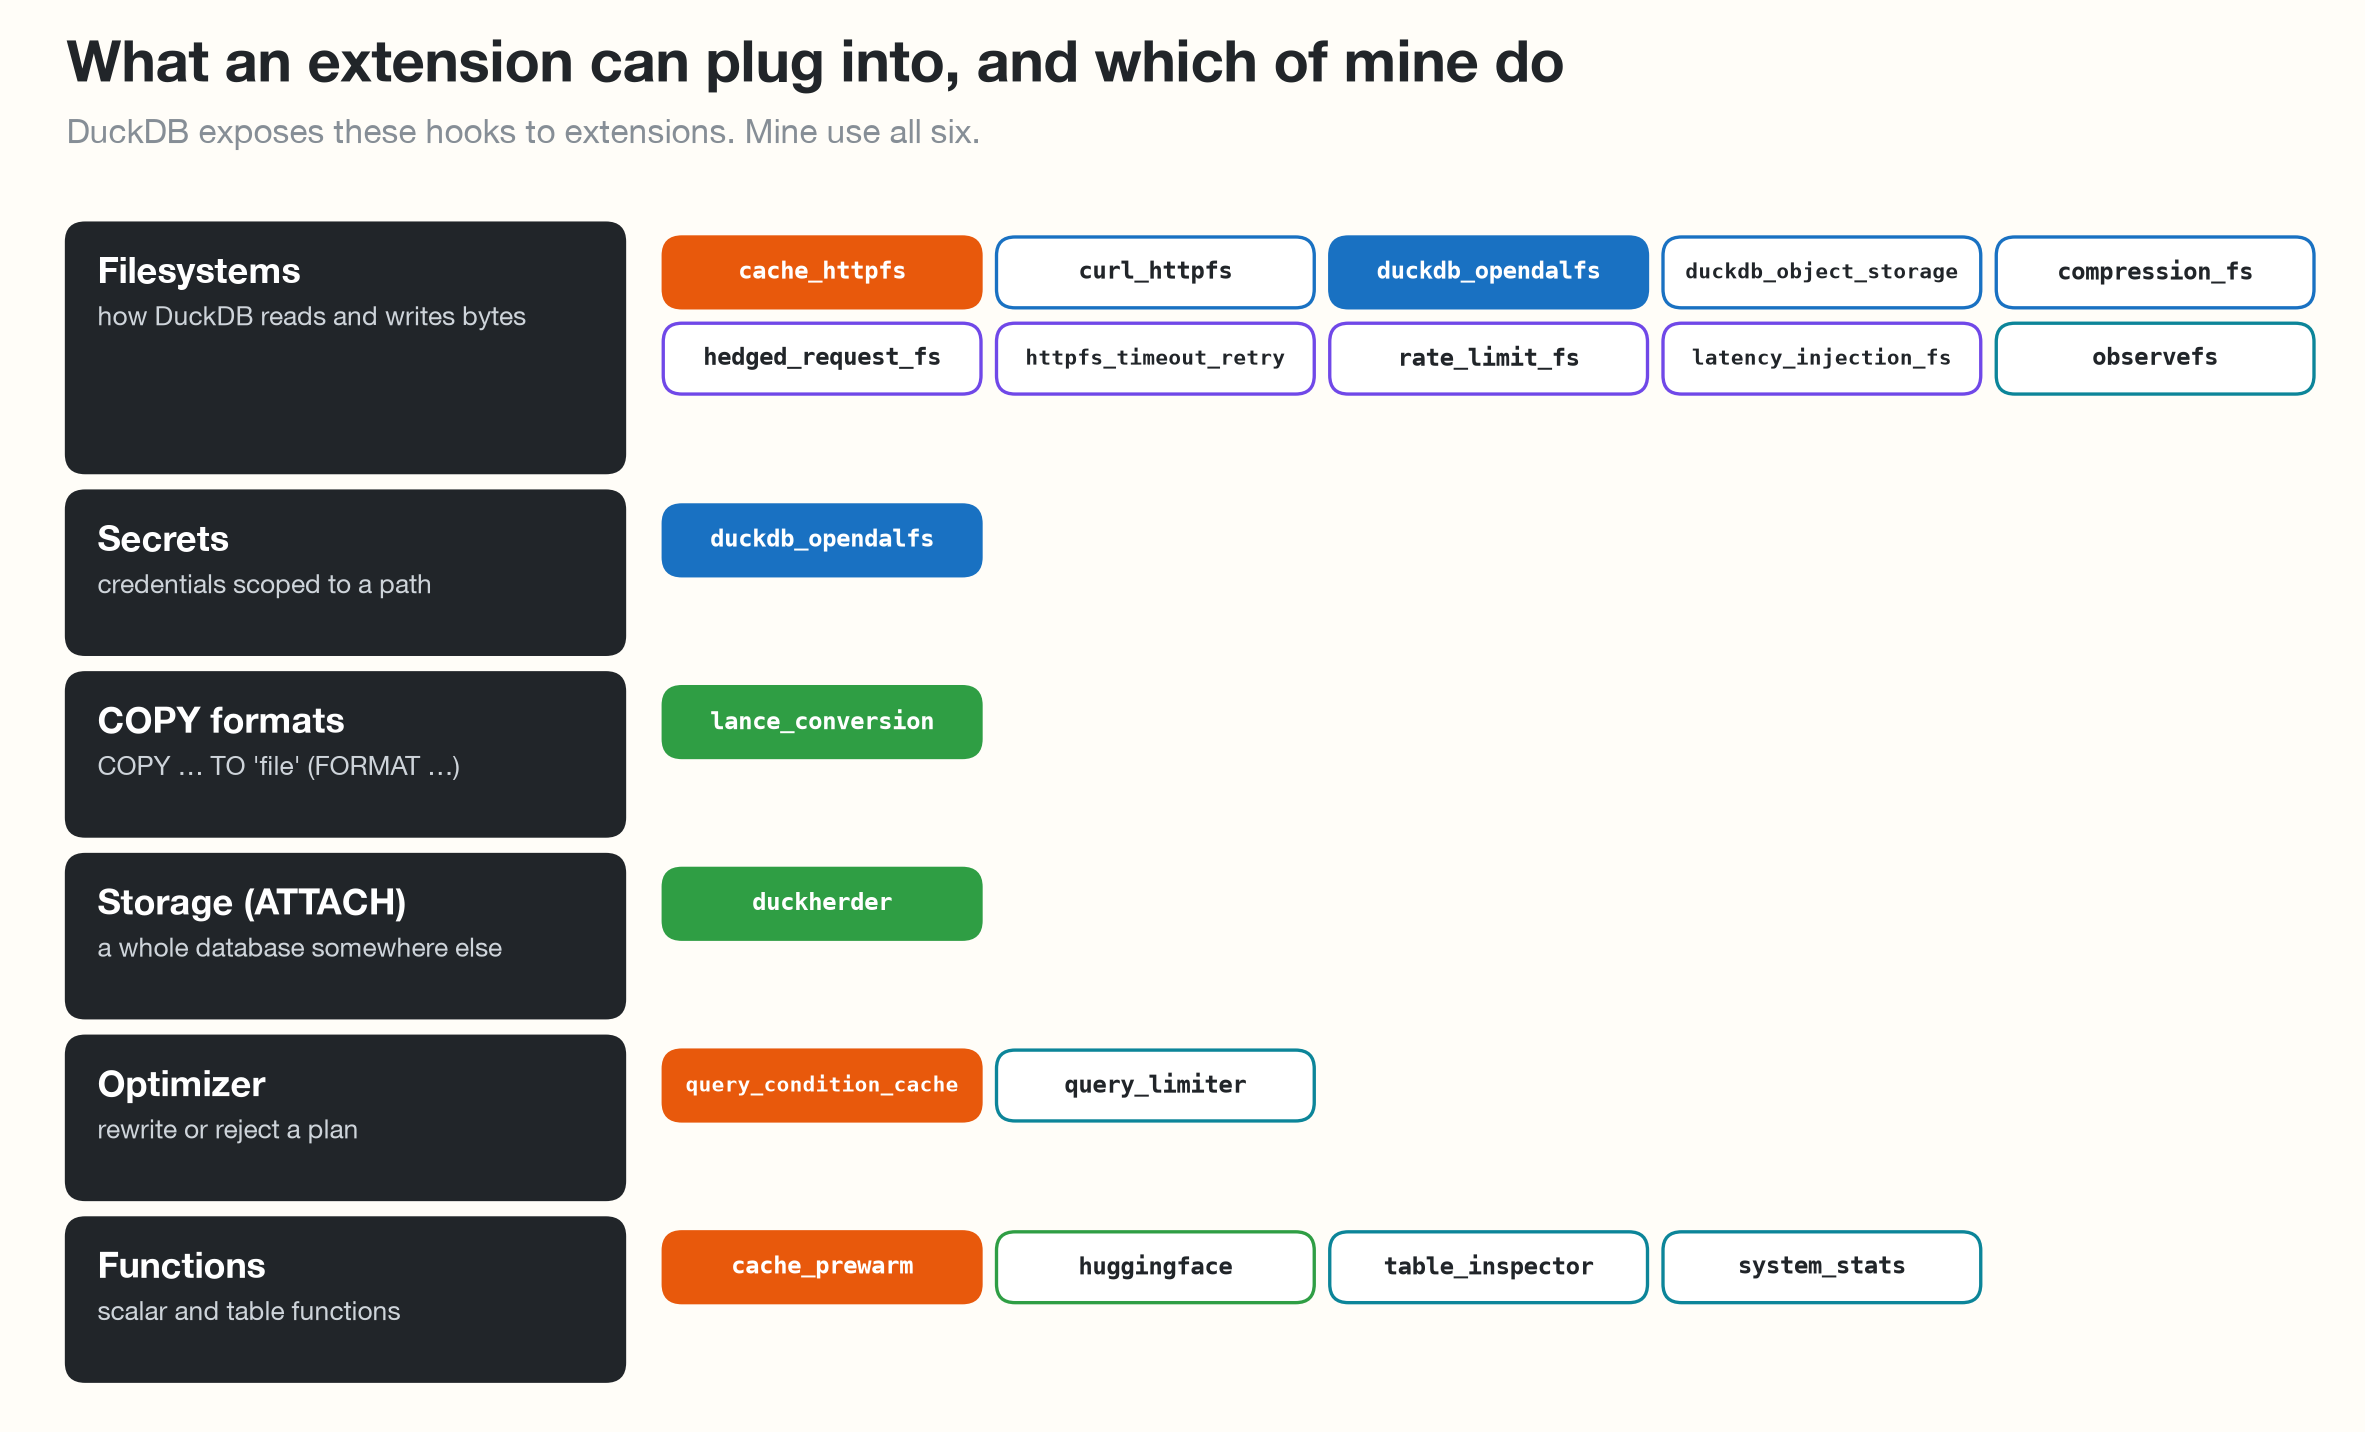
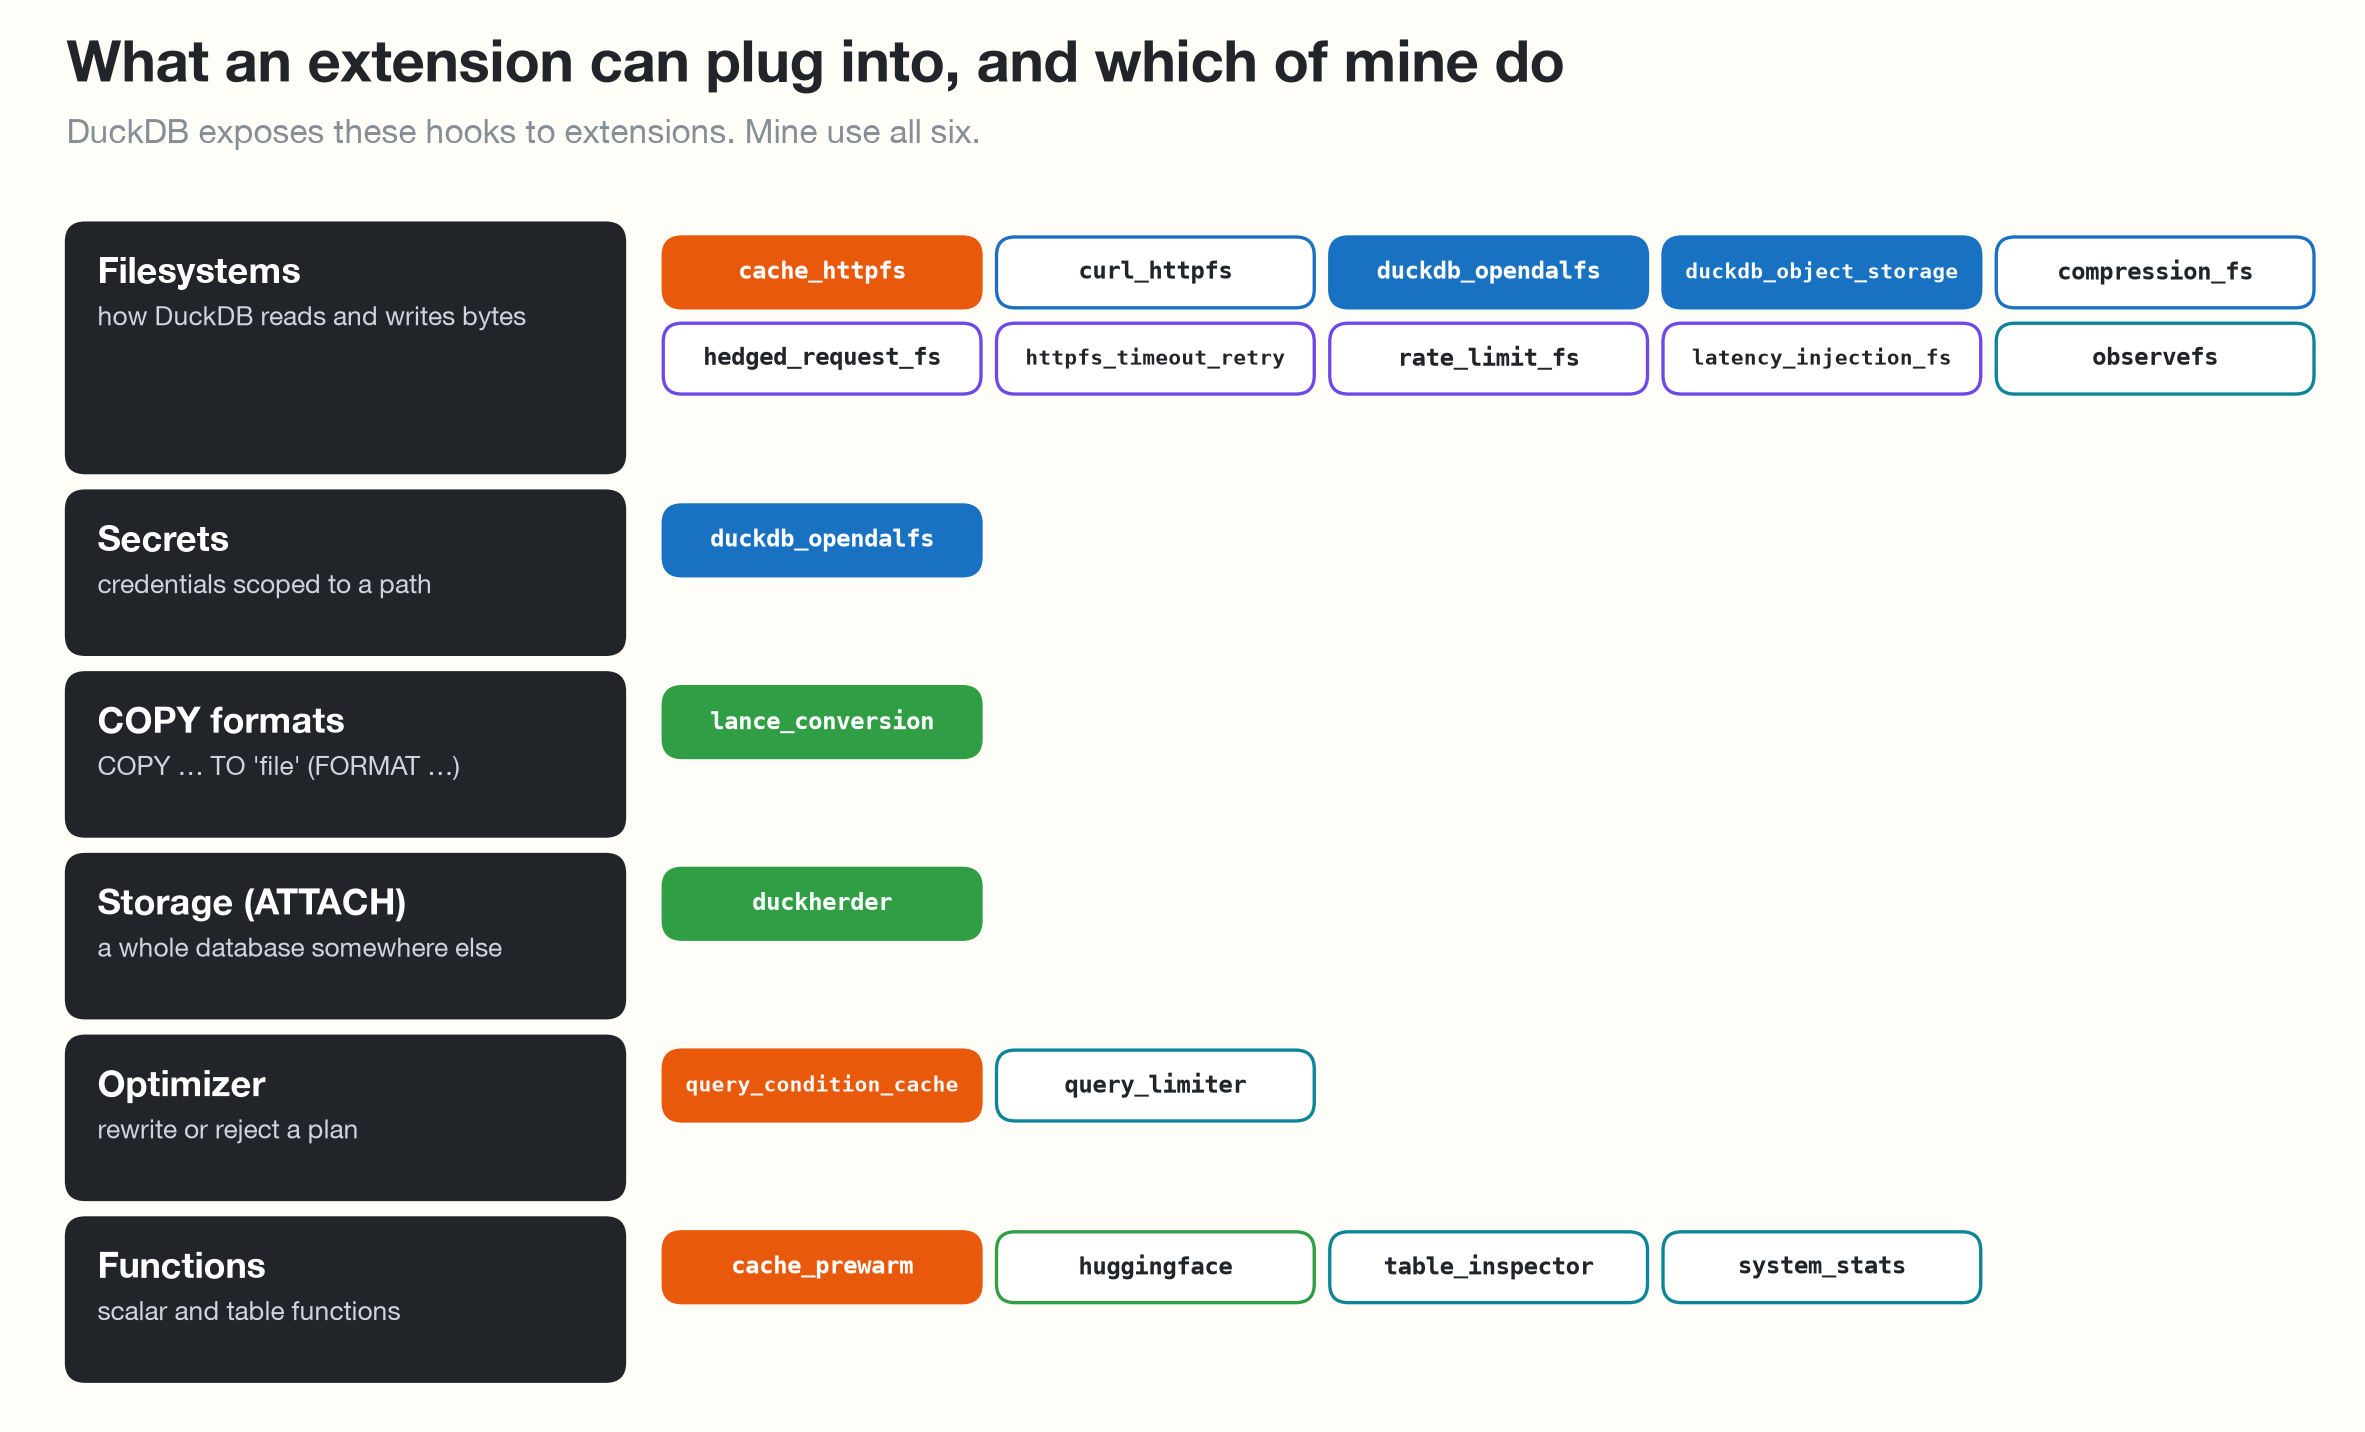
Add duckdb_object_storage as a highlight

Changed region(s): [[0.6791, 0.1536, 0.8334, 0.2151]]

diff --git a/_posts/2026-10-09-duckdb-extensions.md b/_posts/2026-10-09-duckdb-extensions.md
@@ -14,12 +14,13 @@ That's the pattern behind everything in this post. Since March 2025, my collabor
 **TL;DR**
 
 - **Small extensions that compose.** Each one fixes a single problem, so you load only what you need.
-- **Six highlights:**
+- **Seven highlights:**
   - [`cache_httpfs`](#cache-httpfs): a persistent cache that reads S3 data up to 345× faster
   - [`query_condition_cache`](#query-condition-cache): a predicate cache that runs repeated queries up to 314× faster
   - [`cache_prewarm`](#cache-prewarm): warms data before the first query
   - [`lance_conversion`](#lance-conversion): turns any query into an indexed Lance dataset in one statement
   - [`duckherder`](#duckherder): runs your SQL on remote servers
+  - [`duckdb_object_storage`](#duckdb-object-storage): a writable DuckDB database on S3, with any number of read-only readers
   - [`duckdb_opendalfs`](#duckdb-opendalfs): one extension for many storage backends
 - **I'm looking for feature requests and collaborations.** See [open problems](#lets-build-together), or email me at [dentinyhao@gmail.com](mailto:dentinyhao@gmail.com).
 
@@ -59,7 +60,14 @@ Two kinds of problems get my attention.
 
 ![Pain points of remote data mapped to the extensions that fix them](/assets/images/duckdb-extensions/pain-to-fix.png)
 
-**Connections to the outside world that don't belong in DuckDB's core.** DuckDB keeps its core small and free of external dependencies, which is right for the engine. But users still need to read XZ-compressed CSVs, write Lance datasets, reach WebDAV and SFTP, or keep a database in SlateDB. Those bring heavy dependencies, such as a Rust Lance writer, Apache OpenDAL or SlateDB, and they change faster than DuckDB's release cycle. An extension is the right home for them: it ships on its own schedule, and only the people who need it pay for it.
+**Extending DuckDB's reach to other systems.** These rely on libraries that don't belong in DuckDB's core, so they live as extensions:
+
+- `duckdb_opendalfs`: GCS, Azure Blob, Hugging Face, WebDAV, SFTP and more, through Apache OpenDAL
+- `compression_fs`: LZ4, Snappy, Brotli, Bzip2 and XZ files
+- `lance_conversion`: Lance datasets
+- `duckdb_object_storage`: databases stored in SlateDB
+- `huggingface`: datasets on the Hugging Face Hub
+- `duckherder`: other DuckDB servers, over Arrow Flight
 
 ---
 
@@ -146,6 +154,27 @@ SELECT category, count(*) FROM dh.events GROUP BY ALL;
 
 It's experimental, a personal project, and not affiliated with DuckDB Labs. It's also the most ambitious item on this list.
 
+### [`duckdb_object_storage`](https://github.com/dentiny/duckdb-object-storage): a writable DuckDB database on object storage {#duckdb-object-storage}
+
+DuckDB can attach a `.duckdb` file on S3 read-only, but writing one has needed a local disk. This extension keeps the whole database in [SlateDB](https://slatedb.io/), including the write-ahead log and recovery files, on S3-compatible storage or local disk, behind a `duckdb_objfs://` path.
+
+```sql
+INSTALL duckdb_object_storage FROM community;
+LOAD cache_httpfs;   -- registers the S3 secret type
+LOAD duckdb_object_storage;
+
+CREATE SECRET (TYPE S3, KEY_ID '...', SECRET '...', REGION 'us-east-1', SCOPE 's3://my-bucket/duckdb-data');
+SET duckdb_objfs_backend = 's3';
+SET duckdb_objfs_bucket = 'my-bucket';
+SET duckdb_objfs_root = 'duckdb-data';
+
+ATTACH 'duckdb_objfs://analytics.db' AS analytics;
+CREATE TABLE analytics.items (i INTEGER);
+INSERT INTO analytics.items VALUES (1), (2);
+```
+
+One process writes. Any number of others can attach the same database `READ_ONLY` and see new commits within about 10 seconds. SlateDB's in-memory cache is on by default, a local disk cache is one setting away, and `duckdb_objfs_cache_stats()` and `duckdb_objfs_io_stats()` show what's happening. This is the storage layer `duckherder`'s one-writer, many-readers design is built toward.
+
 ### [`duckdb_opendalfs`](https://github.com/dentiny/duckdb-opendal-filesystem): one extension, many backends {#duckdb-opendalfs}
 
 Built on [Apache OpenDAL](https://opendal.apache.org/), it covers **S3-compatible stores, GCS, Azure Blob, Hugging Face, WebDAV, SFTP and more** through ordinary DuckDB secrets, with timeouts and retries on by default.
@@ -158,7 +187,7 @@ CREATE SECRET prod_gcs (TYPE opendal_gcs, SCOPE 'gcs://analytics', TOKEN '...');
 SELECT * FROM read_parquet('gcs://analytics/events.parquet');
 ```
 
-The other twelve extensions each get a one-line summary on the map at the top of this post.
+The other eleven extensions each get a one-line summary on the map at the top of this post.
 
 <details markdown="1">
 <summary>All 18 repositories</summary>
